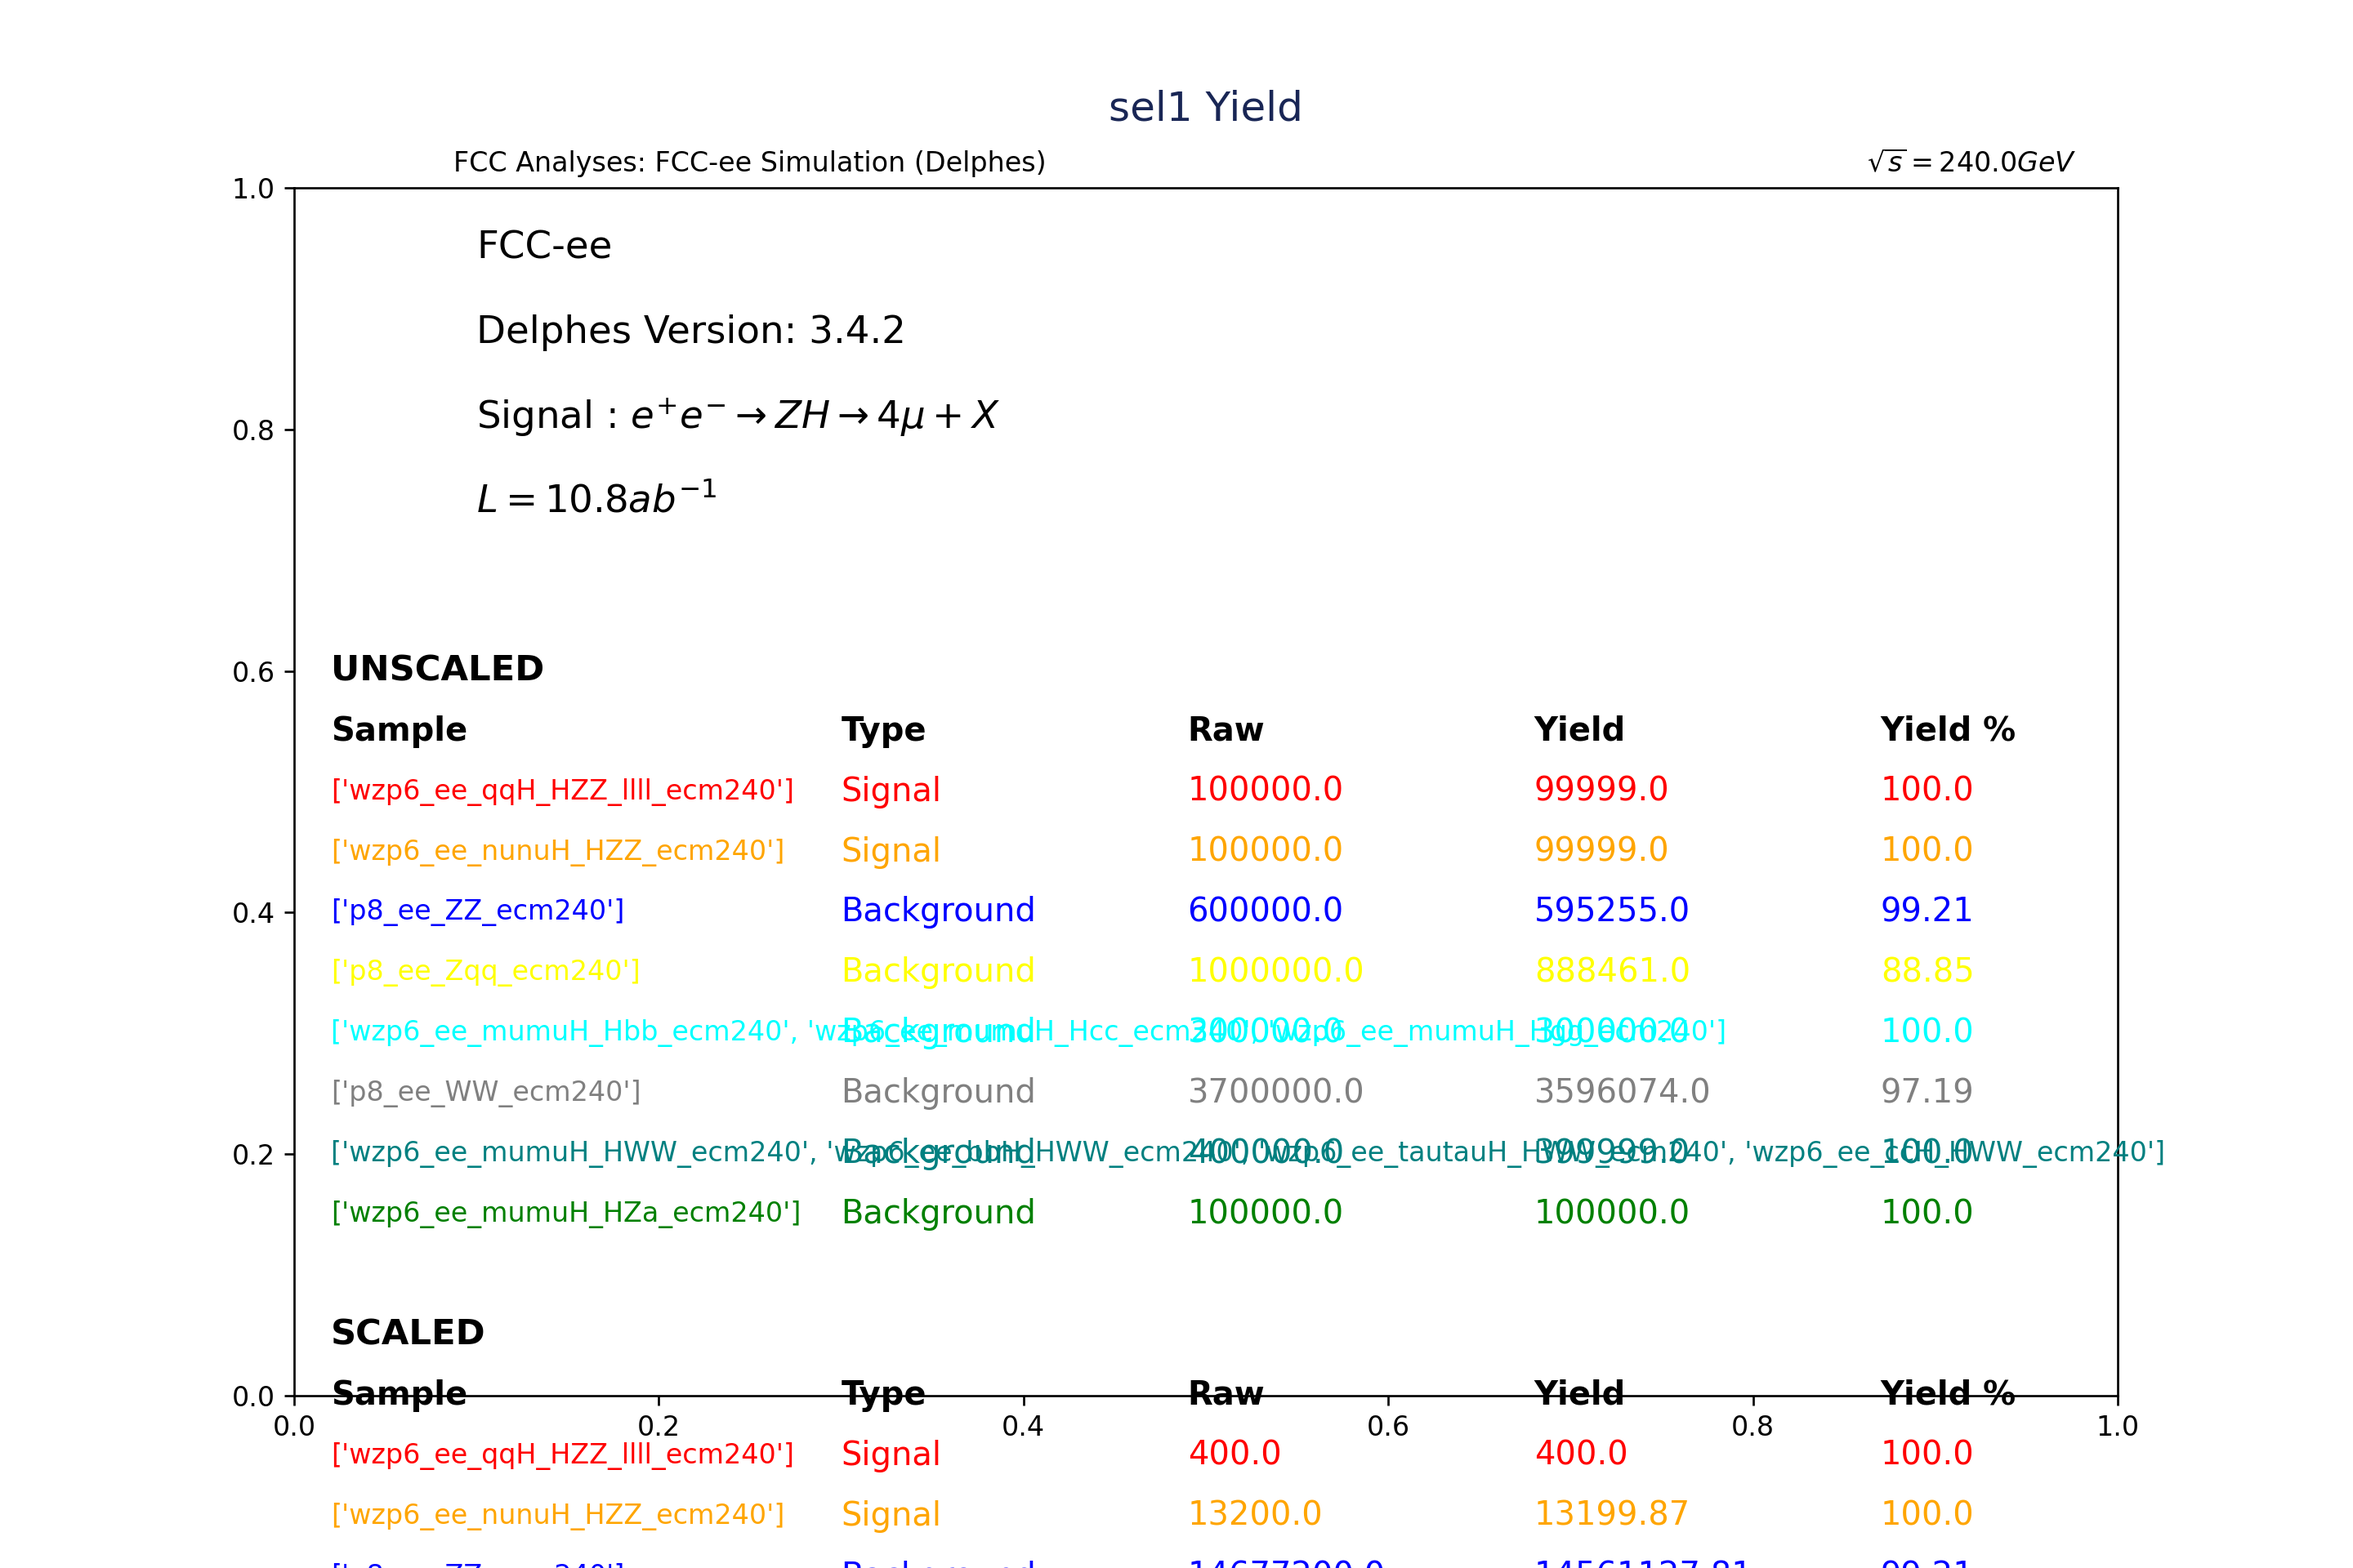
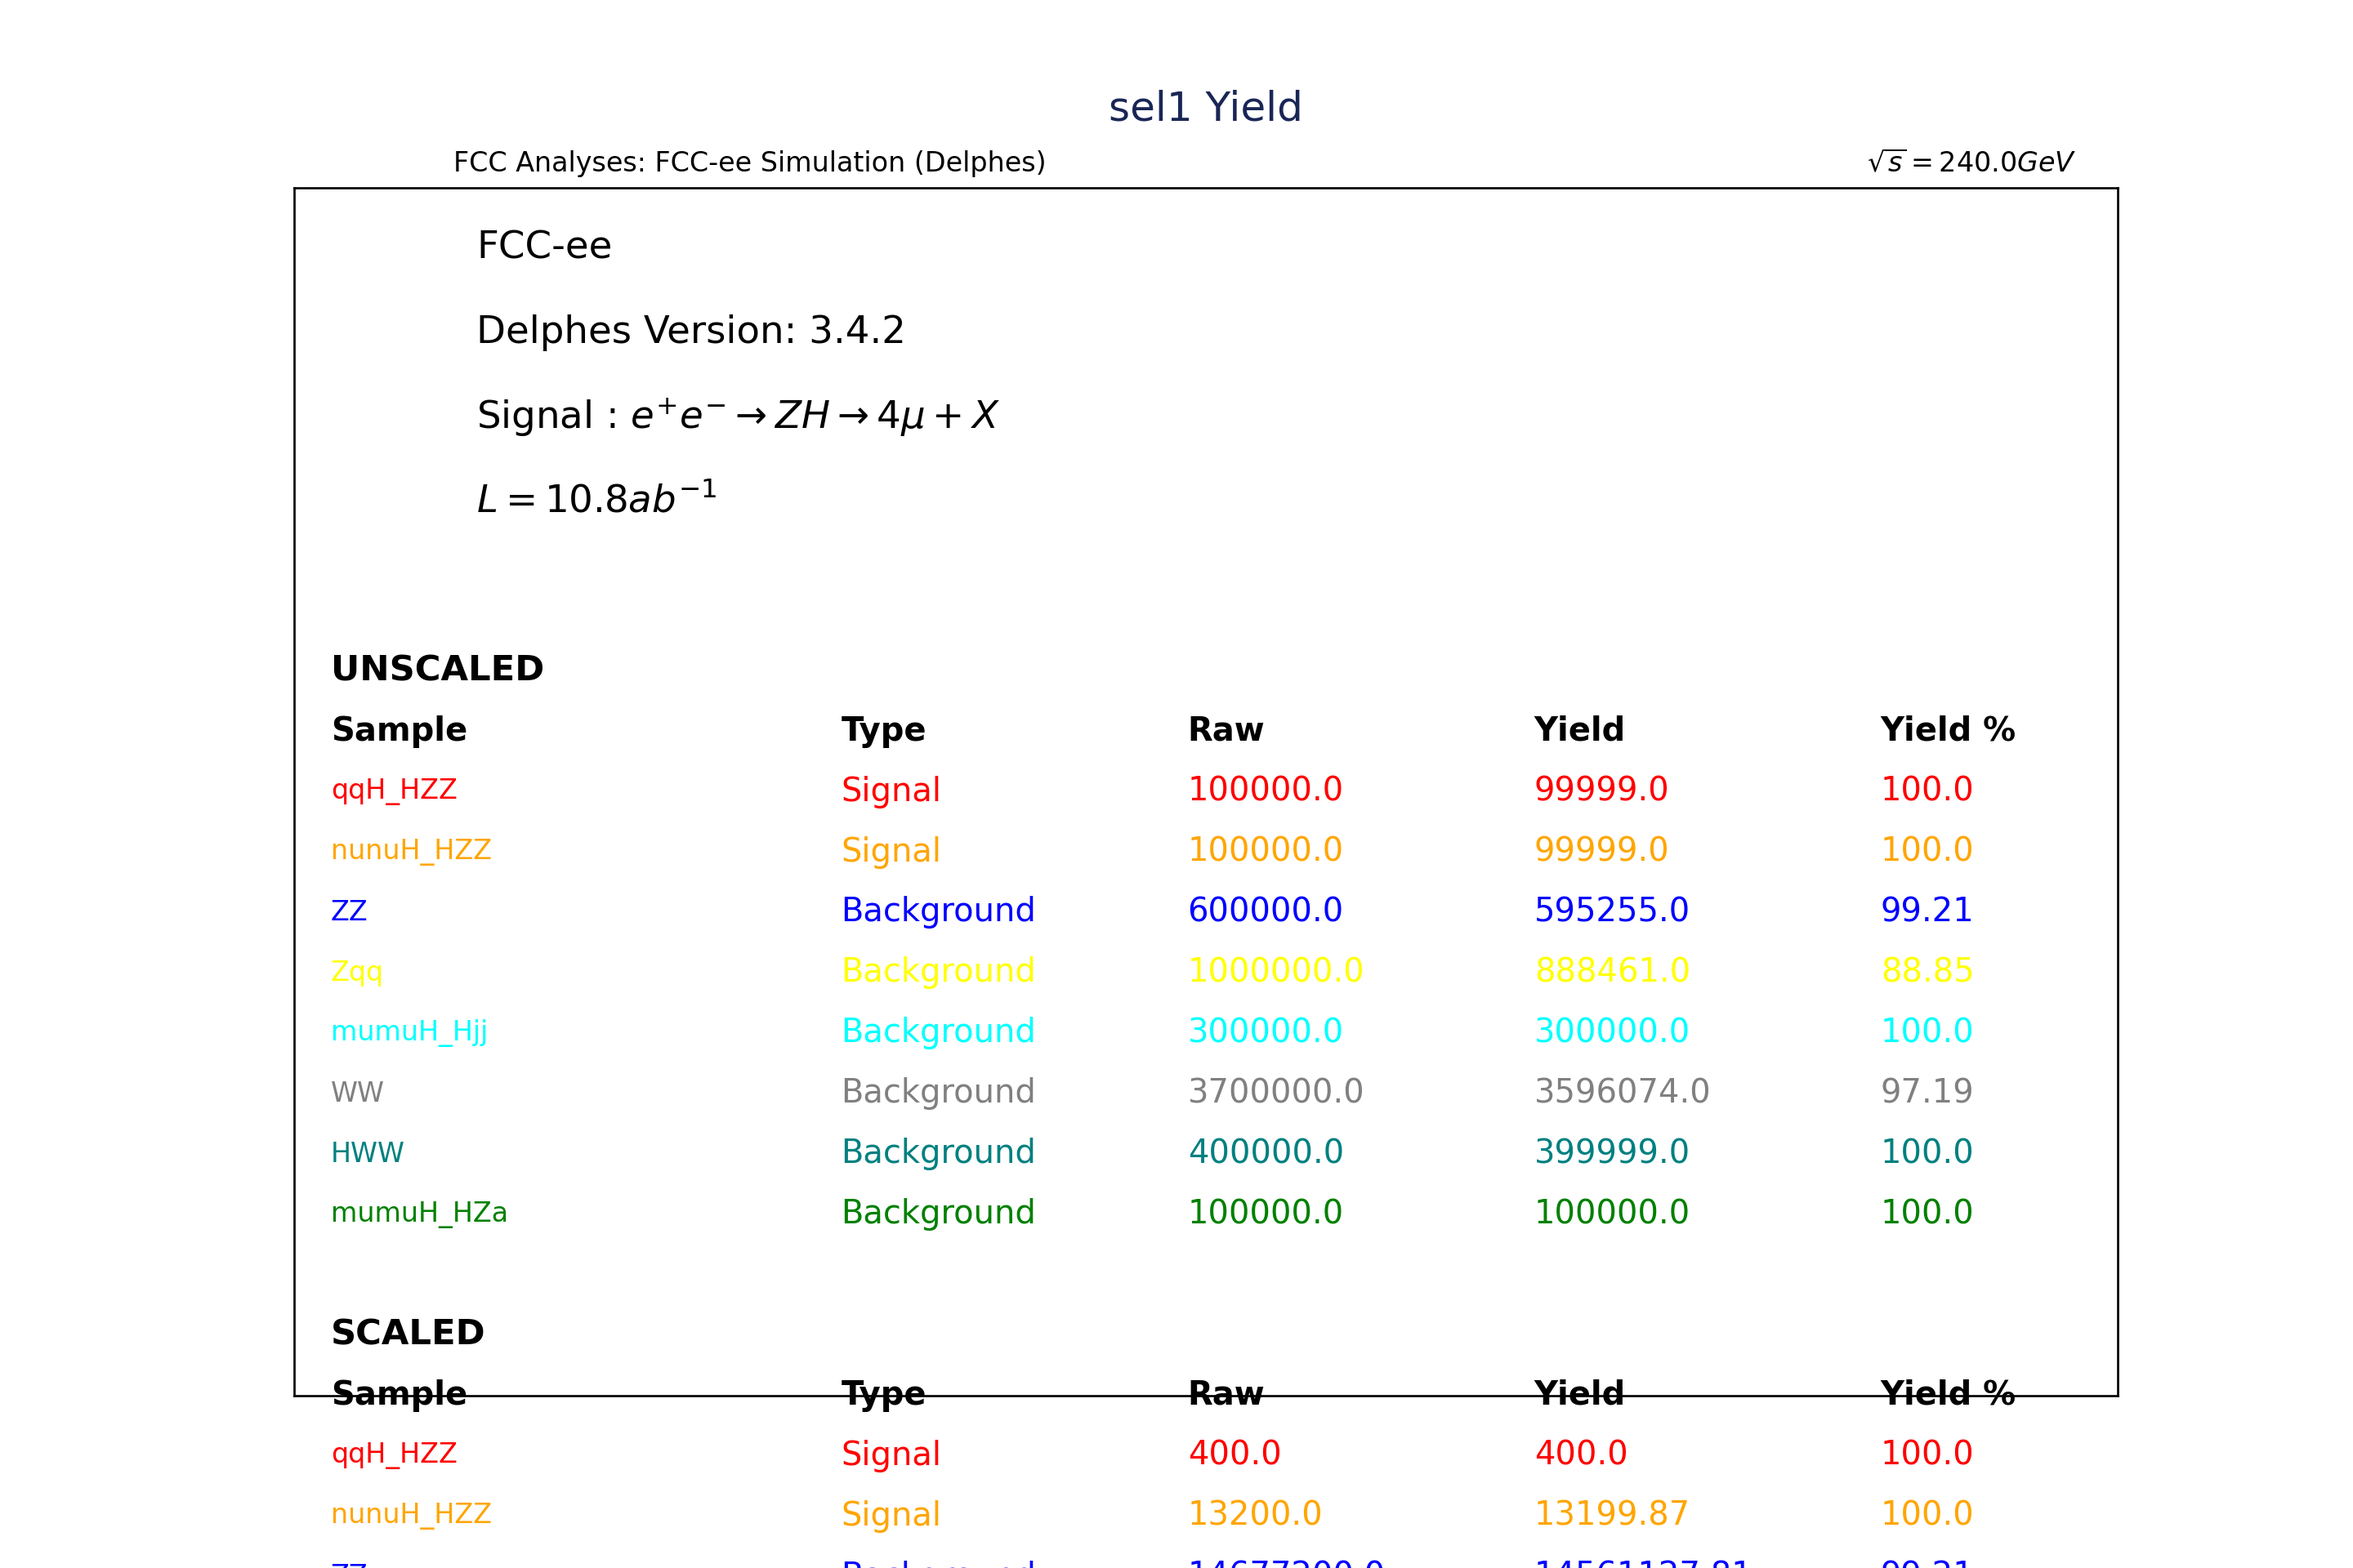
removed ticks in yeild plot changed dataset labels

diff --git a/examples/FCCee/higgs/4leptons/plotter.py b/examples/FCCee/higgs/4leptons/plotter.py
@@ -73,6 +73,8 @@ def yield_plot(name, title, keys, scaled, unscaled, formats, path, plot_width=8,
     '''
 
     fig, ax = plt.subplots(figsize=(plot_width,plot_height))
+    ax.get_xaxis().set_visible(False)
+    ax.get_yaxis().set_visible(False)
     ax.text(0.25, 1.02, 'FCC Analyses: FCC-ee Simulation (Delphes)', fontsize=10, horizontalalignment='center', verticalalignment='center', transform=ax.transAxes)
     ax.text(0.92, 1.02, '$\\sqrt{s} = '+str(energy)+' GeV$', fontsize=10, horizontalalignment='center', verticalalignment='center', transform=ax.transAxes)
     ax.text(0.10, 0.95, collider, fontsize=14, horizontalalignment='left', verticalalignment='center', transform=ax.transAxes)
@@ -97,7 +99,7 @@ def yield_plot(name, title, keys, scaled, unscaled, formats, path, plot_width=8,
             raw_text = str(round(obs[i]['Cutflow'].values()[0],2))
             percentage = str(round(obs[i]['Cutflow'].values()[-1]*100/obs[i]['Cutflow'].values()[0],2))
             level -= linespacing
-            ax.text(0.02, level, datasets, fontsize=10, color=color,horizontalalignment='left', verticalalignment='center', transform=ax.transAxes)
+            ax.text(0.02, level, list(keys)[i], fontsize=10, color=color,horizontalalignment='left', verticalalignment='center', transform=ax.transAxes)
             ax.text(0.30, level, Type, color=color,fontsize=12, horizontalalignment='left', verticalalignment='center', transform=ax.transAxes)
             ax.text(0.49, level, raw_text, color=color, fontsize=12, horizontalalignment='left', verticalalignment='center', transform=ax.transAxes)
             ax.text(0.68, level, yield_text, color=color, fontsize=12, horizontalalignment='left', verticalalignment='center', transform=ax.transAxes)
